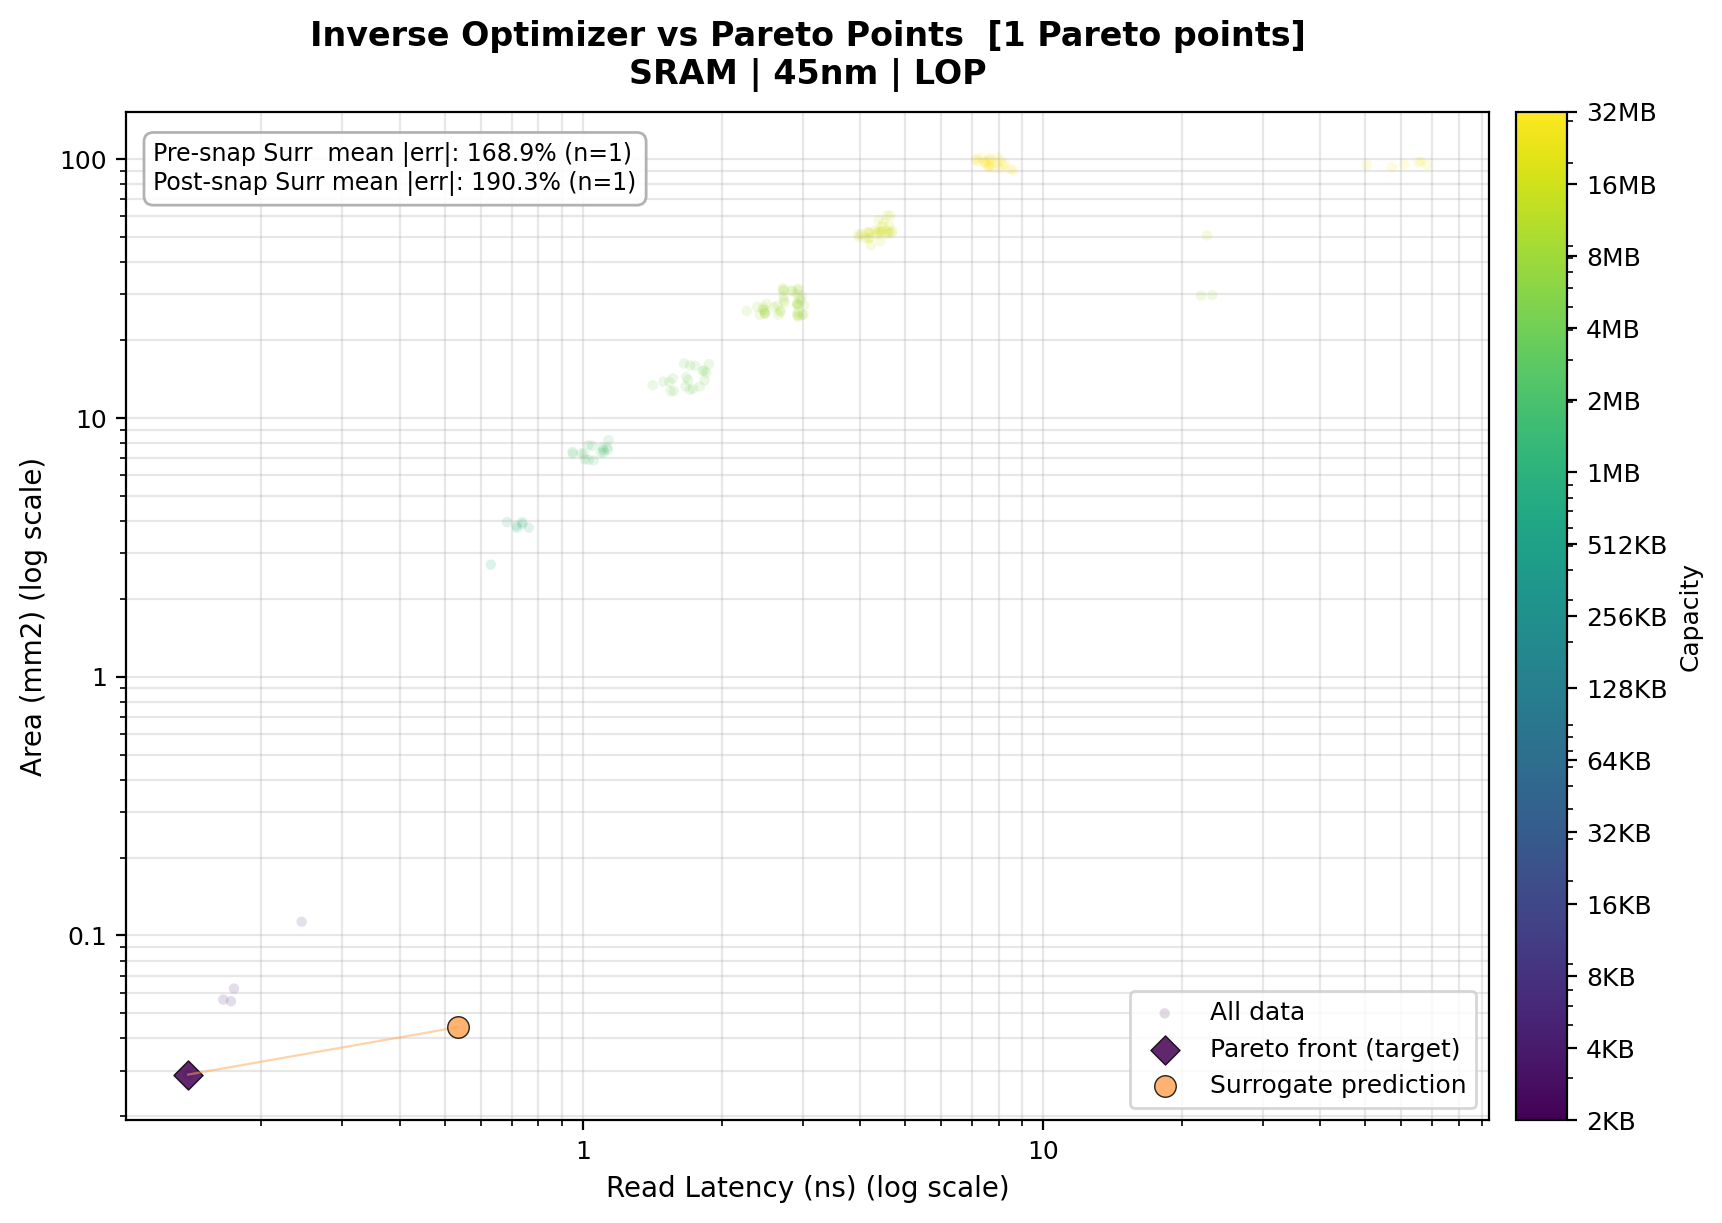
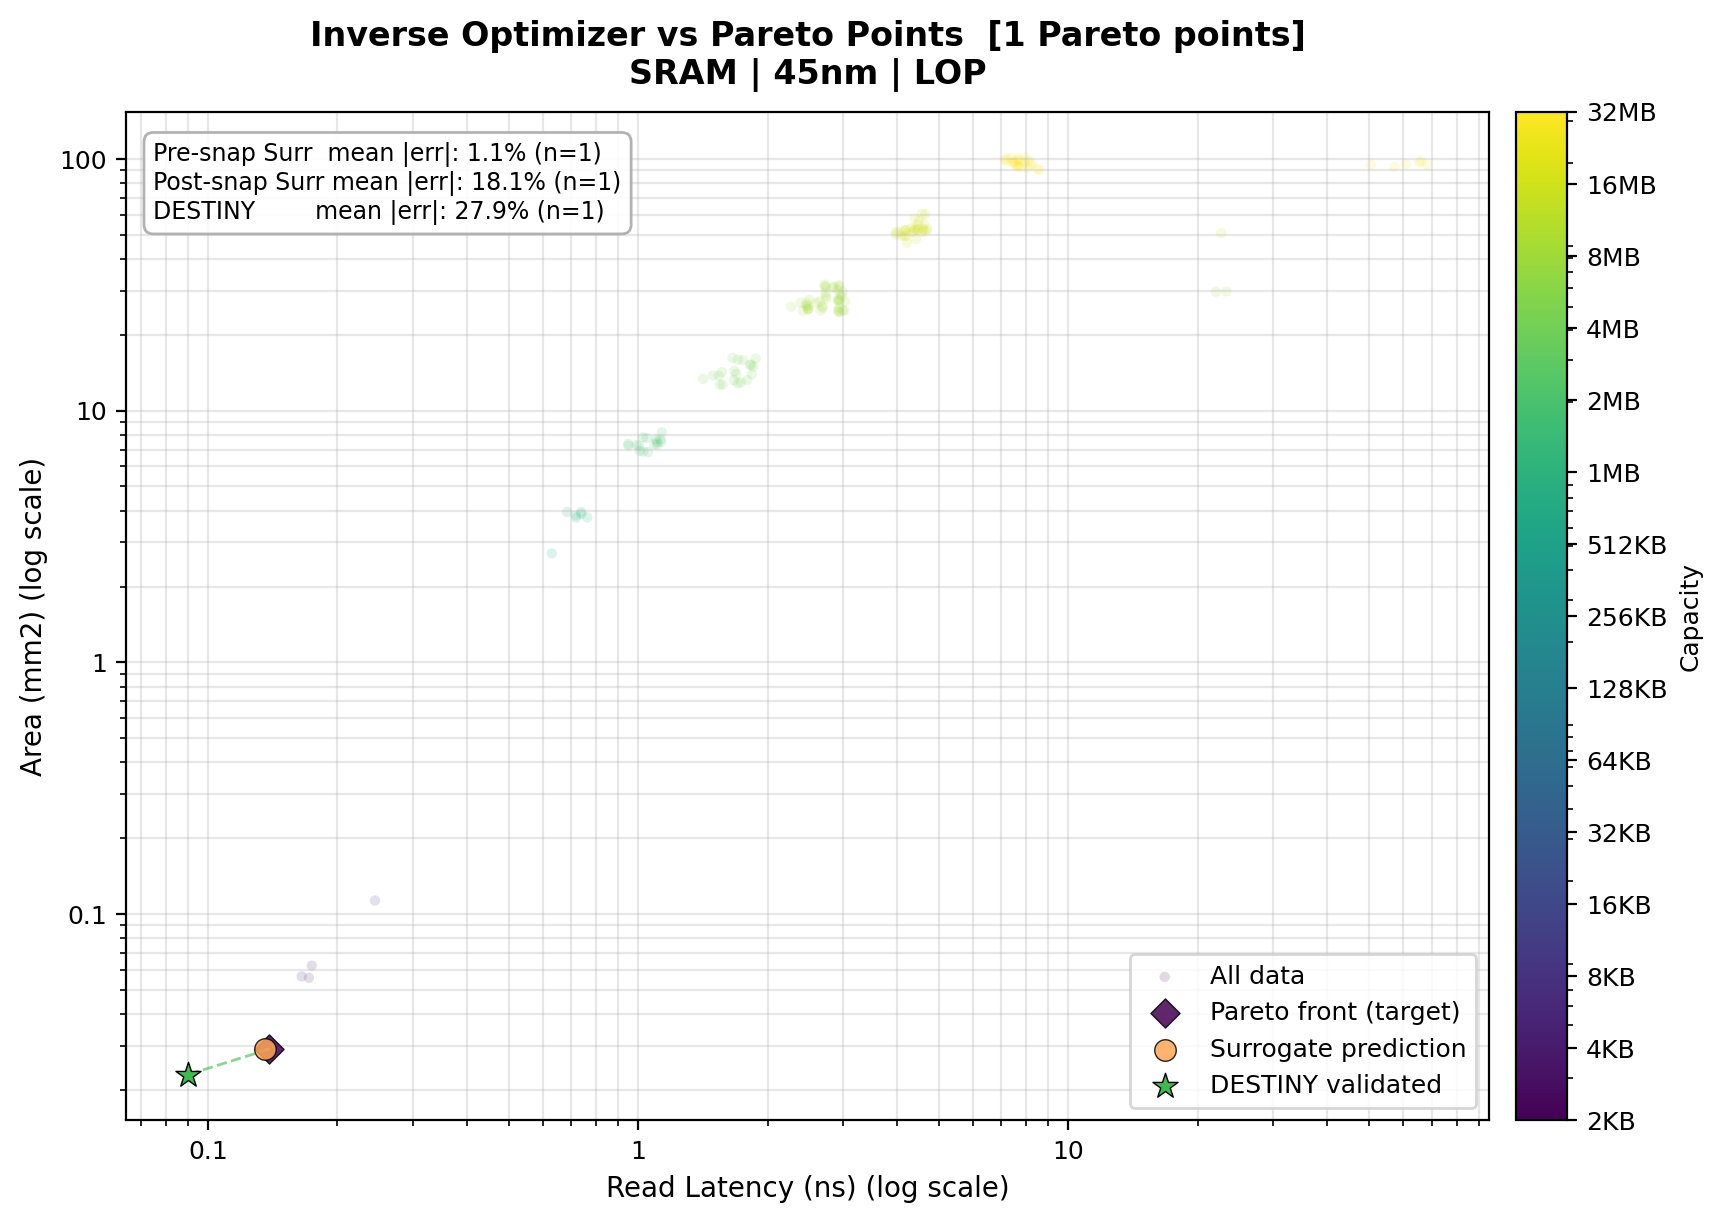
fix: data_stacked_die_count not actually frozen during optimization

diff --git a/inverse_design.py b/inverse_design.py
@@ -143,7 +143,7 @@ def _snap_design(opt_cols, final_log_vals, log10_cols, log2_cols, linear_cols):
 class InverseOptimizer:
     def __init__(self, tech, use_feasibility=False):
         self.tech   = tech
-        self.device = torch.device("cuda" if torch.cuda.is_available() else "cpu")
+        self.device = torch.device("cpu")
 
         if use_feasibility:
             model_dir = f"model_output/{tech.lower()}_feasibility"
@@ -172,34 +172,38 @@ class InverseOptimizer:
         self.means = torch.tensor(self.scaler.mean_,  dtype=torch.float32, device=self.device)
         self.stds  = torch.tensor(self.scaler.scale_, dtype=torch.float32, device=self.device)
 
-        self.opt_cols, self.opt_bounds = [], []
-        self.log10_cols, self.log2_cols, self.linear_cols = [], [], []
+        # Candidate columns — pruned per-call in optimize() based on fixed_context
+        self._all_opt_cols    = []
+        self._all_opt_bounds  = []
+        self._all_log10_cols  = []
+        self._all_log2_cols   = []
+        self._all_linear_cols = []
 
         for col, bound in zip(BASE_ARCH_COLS, BASE_ARCH_BOUNDS):
             if col in self.feature_cols:
-                self.opt_cols.append(col); self.opt_bounds.append(bound)
-                (self.log10_cols if col == "capacity_kb" else self.log2_cols).append(col)
+                self._all_opt_cols.append(col); self._all_opt_bounds.append(bound)
+                (self._all_log10_cols if col == "capacity_kb" else self._all_log2_cols).append(col)
 
         for col, bound in DATA_PARAM_BOUNDS_LOG2.items():
             if col in self.feature_cols:
-                self.opt_cols.append(col); self.opt_bounds.append(bound)
-                self.log2_cols.append(col)
+                self._all_opt_cols.append(col); self._all_opt_bounds.append(bound)
+                self._all_log2_cols.append(col)
 
         for col, bound in DATA_PARAM_BOUNDS_LINEAR.items():
             if col in self.feature_cols:
-                self.opt_cols.append(col); self.opt_bounds.append(bound)
-                self.linear_cols.append(col)
+                self._all_opt_cols.append(col); self._all_opt_bounds.append(bound)
+                self._all_linear_cols.append(col)
 
         if self.tech == "SRAM":
             for col, bound in SRAM_CELL_BOUNDS_LOG10.items():
                 if col in self.feature_cols:
-                    self.opt_cols.append(col)
-                    self.opt_bounds.append((np.log10(bound[0]), np.log10(bound[1])))
-                    self.log10_cols.append(col)
+                    self._all_opt_cols.append(col)
+                    self._all_opt_bounds.append((np.log10(bound[0]), np.log10(bound[1])))
+                    self._all_log10_cols.append(col)
             for col, bound in SRAM_CELL_BOUNDS_LINEAR.items():
                 if col in self.feature_cols:
-                    self.opt_cols.append(col); self.opt_bounds.append(bound)
-                    self.linear_cols.append(col)
+                    self._all_opt_cols.append(col); self._all_opt_bounds.append(bound)
+                    self._all_linear_cols.append(col)
 
     def _target_tensors(self, targets):
         """Return (log10 target values, binary weight mask) for the 4 PPA outputs."""
@@ -212,6 +216,15 @@ class InverseOptimizer:
 
     def optimize(self, targets, fixed_context, steps=300, n_restarts=4, target_weights=None, verbose=False):
         """Gradient-based inverse design with multi-start."""
+        # Exclude columns that are pinned by fixed_context so the optimizer
+        # cannot move them during gradient descent.
+        fixed_keys = set(fixed_context.keys())
+        self.opt_cols    = [c for c in self._all_opt_cols    if c not in fixed_keys]
+        self.opt_bounds  = [b for c, b in zip(self._all_opt_cols, self._all_opt_bounds) if c not in fixed_keys]
+        self.log10_cols  = [c for c in self._all_log10_cols  if c not in fixed_keys]
+        self.log2_cols   = [c for c in self._all_log2_cols   if c not in fixed_keys]
+        self.linear_cols = [c for c in self._all_linear_cols if c not in fixed_keys]
+
         t_tensor, w_tensor = self._target_tensors(targets)
         if target_weights is not None:
             if isinstance(target_weights, dict):
@@ -331,10 +344,10 @@ class InverseOptimizer:
                 if wn / wac < 2.0:
                     design["CellInput_SRAMCellNMOSWidth (F)"] = float(round(min(2.0 * wac, 2.5), 2))
 
-            # Add non-optimised context; decode log2-encoded stack to physical int
+            # Values already decoded to physical values in fixed_context
             for k, v in fixed_context.items():
                 if k not in self.opt_cols:
-                    design[k] = int(2 ** float(v)) if k == "data_stacked_die_count" else v
+                    design[k] = v
 
             # Always compute pre-snap (continuous) physical values for CSV export
             pre_snap = {}

diff --git a/train_model.py b/train_model.py
@@ -468,7 +468,7 @@ def train(args, trial=None):
     train_loader = make_loader(X_train, y_train, shuffle=True)
     val_loader   = make_loader(X_val,   y_val,   shuffle=False)
 
-    device       = torch.device("cuda" if torch.cuda.is_available() else "cpu")
+    device       = torch.device("cpu")
     model        = PPA_MLP(len(feats), args.hidden_dim, args.n_blocks, args.dropout,
                            has_feasibility_head=getattr(args, "feasibility", False)).to(device)
     optimizer    = torch.optim.AdamW(model.parameters(), lr=args.lr, weight_decay=args.weight_decay)

diff --git a/train_model_no_int.py b/train_model_no_int.py
@@ -359,7 +359,7 @@ def train(args, trial=None):
     train_loader = make_loader(X_train, y_train, shuffle=True)
     val_loader   = make_loader(X_val,   y_val,   shuffle=False)
 
-    device       = torch.device("cuda" if torch.cuda.is_available() else "cpu")
+    device       = torch.device("cpu")
     model        = PPA_MLP(len(feats), args.hidden_dim, args.n_blocks, args.dropout).to(device)
     optimizer    = torch.optim.AdamW(model.parameters(), lr=args.lr, weight_decay=args.weight_decay)
     loss_weights = torch.tensor(args.alpha, dtype=torch.float32, device=device)
